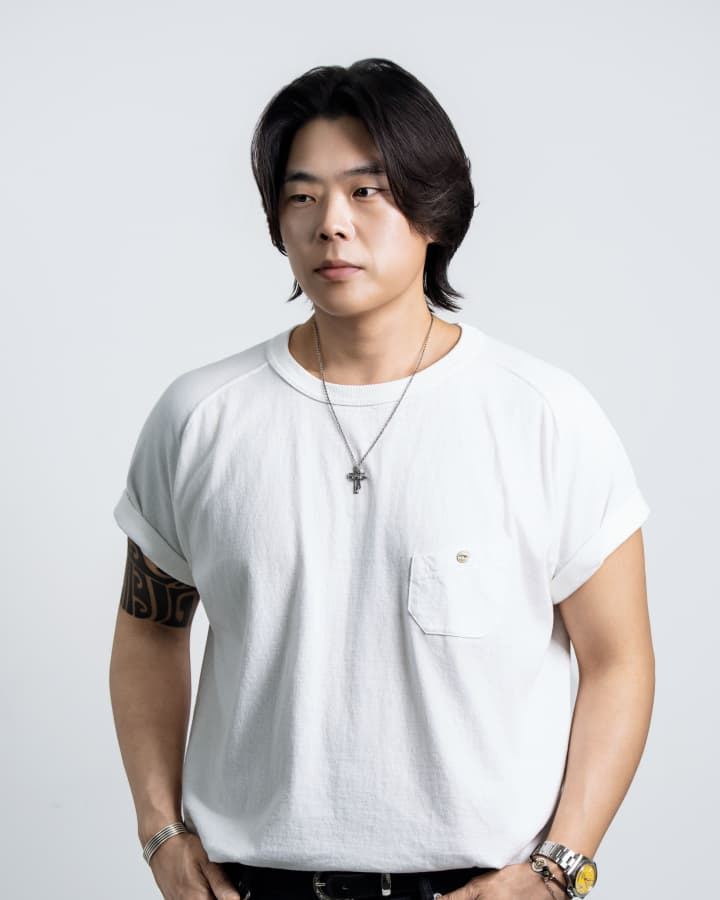
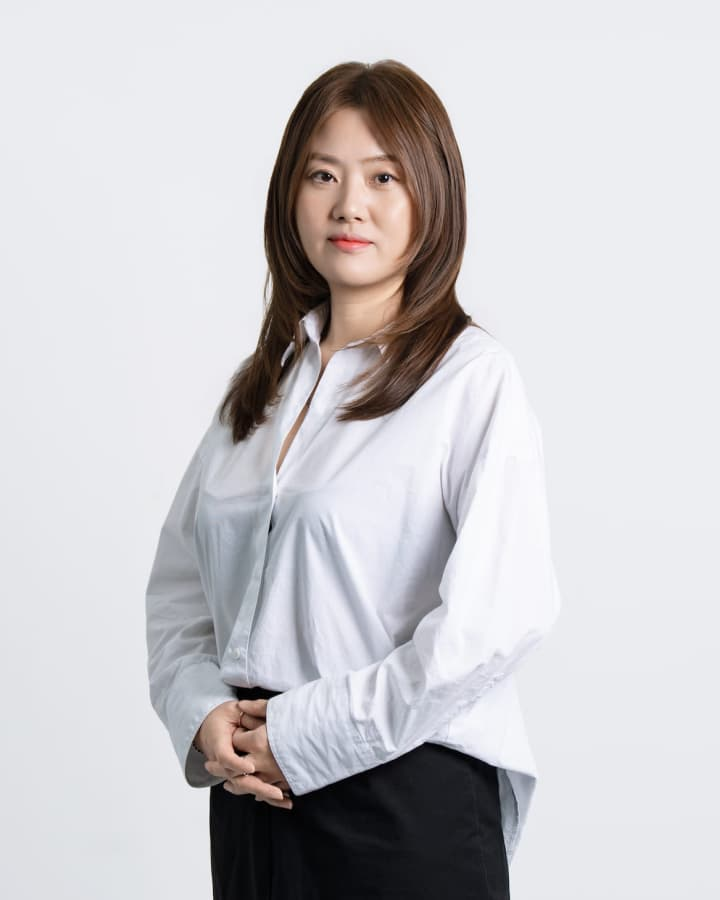
260916

diff --git a/src/pages/Academy.jsx b/src/pages/Academy.jsx
@@ -469,7 +469,7 @@ function Academy() {
               
               <h1 className="title b-b b-2 body-m fw-sb">트렌드와 현장 경험을 연결한 교육을 통해<br/>디자이너의 성장과 경쟁력을 함께 완성합니다.</h1>
               <div className="img_w">
-                <div className="number_count"><b>01</b><span>/ 08</span></div>
+                <div className="number_count"><b>01</b><span>/ 07</span></div>
                 <div className="img">
                   <img src="/img/ac_2_1.jpg"/>
                   <img src="/img/ac_2_2.jpg"/>
@@ -484,44 +484,60 @@ function Academy() {
                     <span>2026 Genius Project [G-Project] 교육</span>
                     <span>아이디헤어 아현역대점 대표</span>
                     <span>아이디헤어 교육총괄이사</span>
-                    <span>아이디헤어 교육프로그램 'Style Work' 기획·개발 및 창시</span>
+                    <span>아이디헤어 교육프로그램 ‘Style Work’ 기획·개발 및 창시</span>
                     <span>현장 실무 중심의 커트 및 디자인 교육 시스템 구축</span>
                     <span>Peek-a-boo 다카자와 부사장 마스터클래스 직접 사사</span>
-                    <span>대한민국 최대 헤어쇼 'The Show' 메인 디렉터</span>
+                    <span>대한민국 최대 헤어쇼 ‘The Show’ 메인 디렉터</span>
                     <span>일본 오사카 ‘미도스지 컬렉션’ 대한민국 최초 대표 메인 디렉터</span>
-                    <span>idHair & Peek-a-boo 헤어쇼 'Super Live' 메인 디렉터</span>
+                    <span>idHair &amp; Peek-a-boo 헤어쇼 ‘Super Live’ 메인 디렉터</span>
                     <span>2011~2022년 비달사순 런던 마스터클래스 10년 연속 참가</span>
                     <span>SACO 및 Toni&guy 마스터클래스 수료</span>
                   </li>
                   <li>
-                    <span>레이어드 컷 / 숏컷 디자인 전문2</span>
-                    <span>현장 스타일링 프로세스 교육2</span>
-                    <span>프리미엄 무드 연출2</span>
+                    <span>id Hair Academy 총괄 운영</span>
+                    <span>헤어디자인 교육과정 기획 및 개발</span>
+                    <span>디자이너 교육체계 및 커리큘럼 개발</span>
+                    <span>신입·주니어 디자이너 육성 프로그램 기획 및 운영</span>
+                    <span>id Hair 사내 교육 프로그램 운영</span>
+                    <span>교육 콘텐츠 및 실무 교육 시스템 구축</span>
                   </li>
                   <li>
-                    <span>레이어드 컷 / 숏컷 디자인 전문3</span>
-                    <span>현장 스타일링 프로세스 교육3</span>
-                    <span>프리미엄 무드 연출3</span>
+                    <span>현 세미나 및 헤어쇼 관련 기획·연출·운영 총괄</span>
+                    <span>스타일워크(Style Work) 개발 참여</span>
+                    <span>id 아카데미 운영 시스템 개발 및 운영</span>
+                    <span>2018년 「THE SHOW」 헤어쇼 무대 메인 디자이너 참여</span>
+                    <span>2018년 아시아 뷰티 엑스포 연출 참여</span>
+                    <span>2025년 OSAKA 아시아 뷰티 엑스포 연출 참여</span>
                   </li>
                   <li>
-                    <span>레이어드 컷 / 숏컷 디자인 전문4</span>
-                    <span>현장 스타일링 프로세스 교육4</span>
-                    <span>프리미엄 무드 연출4</span>
+                    <span>idHair 스타일워크(Style Work) 커트 교육 담당</span>
+                    <span>파트너 기본기 및 실무 테크닉 역량 강화 교육</span>
+                    <span>현장 적용 중심의 커트 교육 프로그램 운영 및 파트너 성장 지원</span>
                   </li>
                   <li>
-                    <span>레이어드 컷 / 숏컷 디자인 전문5</span>
-                    <span>현장 스타일링 프로세스 교육5</span>
-                    <span>프리미엄 무드 연출5</span>
+                    <span>idHAIR 오송아카데미 코어팀 강사 및 아카데미 운영·관리</span>
+                    <span>서울·경기권 외 지역 매장 커뮤니케이션 및 교육 지원</span>
+                    <span>홍대·오송아카데미 스타일워크(Style Work) 전 작품 강의</span>
+                    <span>약 2년간의 오송아카데미 현장 경험을 바탕으로 실무 중심의 교육 진행</span>
+                    <span>현장 컴플레인 요소를 최소화할 수 있는 실질적인 노하우 교육</span>
                   </li>
                   <li>
-                    <span>레이어드 컷 / 숏컷 디자인 전문6</span>
-                    <span>현장 스타일링 프로세스 교육6</span>
-                    <span>프리미엄 무드 연출6</span>
+                    <span>헤어 커트 실무 교육 중심 기술 및 디자인 교육 담당</span>
+                    <span>id ACADEMY 파트너 실무 교육 및 디자이너 교육 프로그램 기획·운영</span>
+                    <span>id ACADEMY 스타일워크(Style Work) 커트 교육 담당</span>
+                    <span>SEEZIER 온라인 아카데미 콘텐츠 제작 및 운영</span>
+                    <span>살롱워크·세미나 등 디자이너 교육 프로그램 기획 및 운영</span>
+                    <span>건국대학교 교육대학원 미용교육학과</span>
                   </li>
                   <li>
-                    <span>레이어드 컷 / 숏컷 디자인 전문7</span>
-                    <span>현장 스타일링 프로세스 교육7</span>
-                    <span>프리미엄 무드 연출7</span>
+                    <span>스타일워크(Style Work) 및 파트너 성장 교육 담당</span>
+                    <span>여성 레이어드펌·커트 중심 실무 테크닉 및 디자인 감각 교육</span>
+                    <span>섬세한 커뮤니케이션과 피드백을 통한 파트너 역량 및 성장 지원</span>
+                    <span>전 중국 청두 한국계 헤어살롱 실장</span>
+                    <span>전 중국 및 해외 다수 국가 펌 세미나 교육 진행</span>
+                    <span>전 해외 인플루언서 발굴 및 교육 프로젝트 참여</span>
+                    <span>전 idHAIR 디자이너·수석실장</span>
+                    <span>현 idHAIR 아카데미 코어팀 강사</span>
                   </li>
 
                 </ul>
@@ -534,29 +550,29 @@ function Academy() {
                 <span className="head-l">안정준 이사</span>
               </li>
               <li>
-                <h4 className="body-l fw-b">Global Color Educator</h4>
-                <span className="head-l">윤 훈</span>
+                <h4 className="body-l fw-b">id Academy Director</h4>
+                <span className="head-l">이은혜 부장</span>
               </li>
               <li>
-                <h4 className="body-l fw-b">Signature Perm Specialist</h4>
-                <span className="head-l">이 설 아</span>
+                <h4 className="body-l fw-b">id Academy Main Instructor</h4>
+                <span className="head-l">윤훈희 팀장</span>
               </li>
               <li>
-                <h4 className="body-l fw-b">Salon Branding Mentor</h4>
-                <span className="head-l">이 수 진</span>
+                <h4 className="body-l fw-b">id Academy Instructor</h4>
+                <span className="head-l">진영준 강사</span>
               </li>
               <li>
-                <h4 className="body-l fw-b">Men's Grooming Expert</h4>
-                <span className="head-l">이 은 혜</span>
+                <h4 className="body-l fw-b">id Academy Instructor</h4>
+                <span className="head-l">최연승 강사</span>
               </li>
 
               <li>
-                <h4 className="body-l fw-b">Scalp &amp; Care Consultant</h4>
-                <span className="head-l">진 영 준</span>
+                <h4 className="body-l fw-b">id Academy Instructor</h4>
+                <span className="head-l">이설아 강사</span>
               </li>
               <li>
-                <h4 className="body-l fw-b">Trend Content Creator</h4>
-                <span className="head-l">최 연 승</span>
+                <h4 className="body-l fw-b">Academy Instructor</h4>
+                <span className="head-l">제인 강사</span>
               </li>
             </ul>
           </div>

diff --git a/src/pages/Magazine.jsx b/src/pages/Magazine.jsx
@@ -1,4 +1,4 @@
-import { useEffect, useLayoutEffect, useRef, useState } from "react";
+import { Fragment, useEffect, useLayoutEffect, useRef, useState } from "react";
 import { Link, useLocation, useNavigate, useParams } from "react-router-dom";
 import { gsap } from "gsap";
 import Splitting from "splitting";
@@ -17,12 +17,12 @@ import "../styles/ourpicks.scss";
 
 function Magazine() {
   const tabs = [
-    { name: "Our PICKS", path: "our-picks" },
-    { name: "id EVENT", path: "id-event" },
-    { name: "id FAMILY", path: "id-family" },
-    { name: "id NEWS", path: "id-news" },
-    { name: "id GALLERY", path: "id-gallery" },
-    { name: "id PLAY", path: "id-play" },
+    { name: "Our PICKS", path: "our-picks", description: ["id HAIR가 큐레이션한 트렌드, 브랜드 소식을 통해<br/>라이프스타일을 담은 이야기를 전합니다."] },
+    { name: "id EVENT", path: "id-event", description: ["아이디헤어에서 진행하는 다양한 이벤트와 특별한 혜택을 만나볼 수 있는 공간"] },
+    { name: "id FAMILY", path: "id-family", description: ["아이디헤어를 만들어가는 사람들의<br/>진솔한 이야기"] },
+    { name: "id NEWS", path: "id-news", description: ["아이디헤어의 새로운 소식과 주요<br/>이야기를 전하는 뉴스 콘텐츠"] },
+    { name: "id GALLERY", path: "id-gallery", description: ["아이디헤어가 제안하는 시즌별 헤어<br/>트렌드를 만나보는 룩북 갤러리"] },
+    { name: "id PLAY", path: "id-play", description: ["아이디헤어의 다채로운 순간을 영상<br/>콘텐츠로 만나는 id PLAY"] },
   ];
 
   const location = useLocation();
@@ -35,7 +35,7 @@ function Magazine() {
   const [sanityTotalPages, setSanityTotalPages] = useState({});
   const totalPages = sanityTotalPages[currentCategory] || getTotalPages(currentCategory);
   const pageNumbers = Array.from({ length: totalPages }, (_, index) => index + 1);
-  const currentTabName = tabs.find((tab) => tab.path === currentCategory)?.name || tabs[0].name;
+  const currentTab = tabs.find((tab) => tab.path === currentCategory) || tabs[0];
   const showPagination = currentCategory !== "id-play";
   const [isTitleTabOut, setIsTitleTabOut] = useState(false);
   const tabMoveTimerRef = useRef(null);
@@ -199,9 +199,17 @@ function Magazine() {
         <div className="mg_title b-b b-delay-0 ">
           <h1 className="display-l apprael  apprael_all apprael_ani" >ID MAGAZINE</h1>
           <div className={`mg_title_right ${isTitleTabOut ? "tab_out" : ""}`}>
-            <h4 className="gt display-xs fadeX-2">{currentTabName}</h4>
-            <div className="body-m fadeX-3 txt">id HAIR가 큐레이션한 트렌드, 브랜드 소식을 통해</div>
-            <div className="body-m fadeX-4 txt">라이프스타일을 담은 이야기를 전합니다.</div>
+            <h4 className="gt display-xs fadeX-2">{currentTab.name}</h4>
+            {currentTab.description.map((line, index) => (
+              <div className={`body-m fadeX-${3 + index} txt`} key={index}>
+                {line.split(/<br\s*\/?\s*>/i).map((text, lineIndex) => (
+                  <Fragment key={lineIndex}>
+                    {lineIndex > 0 && <br />}
+                    {text}
+                  </Fragment>
+                ))}
+              </div>
+            ))}
           </div>
         </div>
 

diff --git a/src/styles/magazine.scss b/src/styles/magazine.scss
@@ -19,7 +19,7 @@
           &::before{content: ''; display: block; width: 0.727vw; height: 0.727vw; border-radius: 100%; background-color: var(--bg-ac-1); margin-right: 1.212vw;}
         }
 
-        .txt{width: 24.242vw; font-weight: 500;
+        .txt{width: 24.242vw; font-weight: 500; text-wrap: balance; word-break: keep-all; width: 70%;
           .inner{width: 24.242vw;}
         }
       }
@@ -465,7 +465,7 @@ body.play-viewer-animating .play_viewer .play_viewer_swiper{opacity: 0;}
     --play-slide-width: calc(100% - 0px);
     --play-max-height: calc(100vh - 160px);
     .play_viewer_close{top: 5.556vw; right: 5.556vw; left: auto; transform: none;}
-    .play_viewer_stage{align-items: center; justify-content: center; padding: 0 5.556vw 0; box-sizing: border-box;}
+    .play_viewer_stage{align-items: center; justify-content: center; padding: 0 0 0; box-sizing: border-box;}
     .play_viewer_swiper{width: 100%; height: 100%; overflow: visible;}
     .play_viewer_swiper .swiper-wrapper{align-items: center;}
     .play_viewer_slide{width: min(var(--play-slide-width), calc(var(--play-max-height) * 16 / 9)); height: auto;}
@@ -508,6 +508,7 @@ body::-webkit-scrollbar-track {
 }
 */
 // id PLAY: keep slide and transition frame dimensions identical.
+.id_play_viewer .play_viewer_slide_btn iframe.play_media{height:100%; pointer-events:auto;}
 @media (min-width:1024px) {
   .id_play_viewer.is_landscape {
     .play_viewer_slide_btn iframe.play_media{height:100%;}
@@ -519,6 +520,12 @@ body::-webkit-scrollbar-track {
   }
 }
 @media (max-width:1023.98px) {
+  .id_play_viewer.is_landscape {
+    .play_viewer_slide_btn iframe.play_media{height:100%;}
+    .play_viewer_slide.type-b, .play_viewer_frame{
+      width:100%; height:56.25vw; max-height:none; flex-shrink:0;
+    }
+  }
   .id_play_viewer.is_portrait {
     .play_viewer_slide_btn iframe.play_media{height:100%;}
     .play_viewer_stage{padding:0;}

diff --git a/src/styles/ourpicks.scss b/src/styles/ourpicks.scss
@@ -32,7 +32,10 @@ body.ourpicks-gallery-active .page_magazine {color: #fff;
     }
   }
 
-  .ourpicks_section_head {width: calc(100% - 3.636vw - 3.636vw); margin-left: 3.636vw; display: flex; align-items: flex-end; justify-content: space-between; gap: 2.424vw; padding-bottom: 1.091vw;}
+  .ourpicks_section_head {width: 100%; margin-left:0; display: flex; align-items: flex-end; justify-content: space-between; gap: 2.424vw; padding-bottom: 1.091vw;}
+  .ourpicks_play{
+    .ourpicks_section_head {width: calc(100% - 3.636vw - 3.636vw); margin-left: 3.636vw; display: flex; align-items: flex-end; justify-content: space-between; gap: 2.424vw; padding-bottom: 1.091vw;}
+  }
 
   .ourpicks_section_title {display: flex; align-items: center; gap: 2.424vw;
     h2 {line-height: 1; font-weight: 400; letter-spacing: 0;}
@@ -169,13 +172,14 @@ body.ourpicks-gallery-active .page_magazine {color: #fff;
       .ourpicks_play_slider{margin-top: 0; padding-top: 21.111vw; width: calc(100% + (5.556vw * 2)); margin-left: -5.556vw; padding-left: 5.556vw; padding-right: 5.556vw; overflow: hidden;}
     }
     .ourpicks_play{width: 100%; margin-left: 0;}
-    .ourpicks_section_head{position: relative; padding-bottom: 3.333vw;
+    .ourpicks_section_head{position: relative; padding-bottom: 3.333vw; 
       .ourpicks_view_all{position: absolute; top: calc(100% + 5.556vw); right: 0; padding-bottom: 0;}
       .ourpicks_section_title{justify-content: space-between;
         h2{white-space: nowrap;}
         p{text-wrap: balance; word-break: keep-all; text-align: right; width: 50%; line-height: 1.6;}
       }
     }
+    .ourpicks_play .ourpicks_section_head{margin-left: 0; width: 100%;}
     
     .ourpicks_news_body{display: block; padding-top: 21.111vw;
       .ourpicks_news_preview{aspect-ratio: 320 / 180;}

diff --git a/src/styles/main.scss b/src/styles/main.scss
@@ -94,8 +94,8 @@
     .inner{position: sticky; left: 0; top: 0; width: 100%; height: 100svh;
       .bg{width: 100%; height: 100%; object-fit: cover;}
       h1{position: absolute;bottom: 0; width: 100%; text-align: center;}
-      .posting{top: 50%; transform: translateY(-50%); right: 3.636vw; aspect-ratio: 1 / 1; height: 53svh; position: absolute;
-        img{width: 100%; height: 100%; object-fit: cover;}
+      .posting{top: 0; right:0; height: 100%; position: absolute; width: 100%;
+        img{width: 100%; height: 100%; object-fit: cover; display: none;}
       }
     }
   }
@@ -147,7 +147,7 @@
     }
     .main_collection{
       .inner{
-        .posting{width:59.444vw; height:unset; aspect-ratio:1 / 1; transform:translate(-50%, -50%); left:50%; display: none;}
+        /*.posting{width:59.444vw; height:unset; aspect-ratio:1 / 1; transform:translate(-50%, -50%); left:50%; display: none;}*/
       }
     }
   }

diff --git a/src/pages/magazine/IdPlay.jsx b/src/pages/magazine/IdPlay.jsx
@@ -39,7 +39,7 @@ const getYoutubeEmbedUrl = (url) => {
 
   if (!id) return "";
 
-  return `https://www.youtube.com/embed/${id}?autoplay=1&mute=1&autohide=1&playsinline=1&loop=1&playlist=${id}&controls=0&rel=0&modestbranding=1&disablekb=1&fs=0&iv_load_policy=3&cc_load_policy=0`;
+  return `https://www.youtube.com/embed/${id}?autoplay=1&mute=0&autohide=1&playsinline=1&loop=1&playlist=${id}&controls=1&rel=0&modestbranding=1&disablekb=0&fs=0&iv_load_policy=3&cc_load_policy=0`;
 };
 
 const getPlayVideoUrl = (item) => item?.youtubeUrl || item?.videoUrl || item?.url || "";

diff --git a/src/styles/header.scss b/src/styles/header.scss
@@ -263,7 +263,7 @@
             display: grid;
             grid-template-columns: 1fr 1fr 1fr;
             li{  width:100%;
-              a{ border-radius:4px; padding:4px 12px 2px; background:#fff; width:100%; display: flex; align-items: center; justify-content: center; font-size:14px;}
+              a{ border-radius:4px; padding:4px 12px 2px; background:#fff; width:100%; display: flex; align-items: center; justify-content: center; font-size:14px; white-space: nowrap;}
             }
           }
 

diff --git a/src/pages/About.jsx b/src/pages/About.jsx
@@ -251,7 +251,7 @@ function About() {
               <h1 className="as_title fw-r t_m_2 me_2">Message</h1>
             </div>
             <div className="as_text_2 ani_x">
-              <img className="signiture" src="/img/about_4_sig.png"/>
+              <img className="signiture" src="/img/about_4_sig_2.png"/>
               <ul>
                 <li className="body-m apprael_ani delay-1 ls_s">
                   <strong className="fw-b">Company Name</strong><p>주식회사 아이디뷰티</p>

diff --git a/src/styles/academy.scss b/src/styles/academy.scss
@@ -351,7 +351,7 @@
             .number_count{transform:unset!important; left: unset; right: 0;}
             .img{width: calc(100% / 3);}
             ul{width: calc((100% / 3) * 2); position: unset; padding: 0 0 0 26px; align-items: flex-end; display: flex;
-              li{width: 100%; font-size: 11px;}
+              li{width: 100%; font-size: 3.056vw;;}
             }
           }
         }
